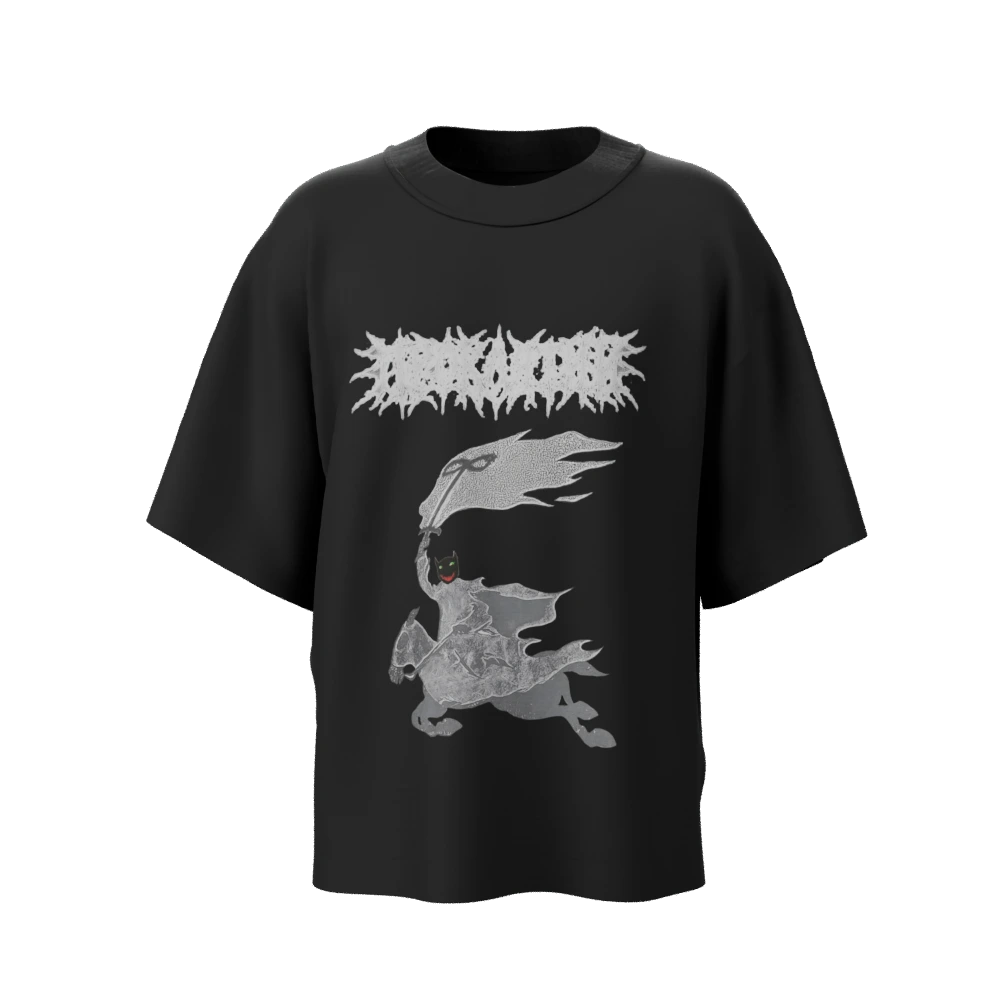
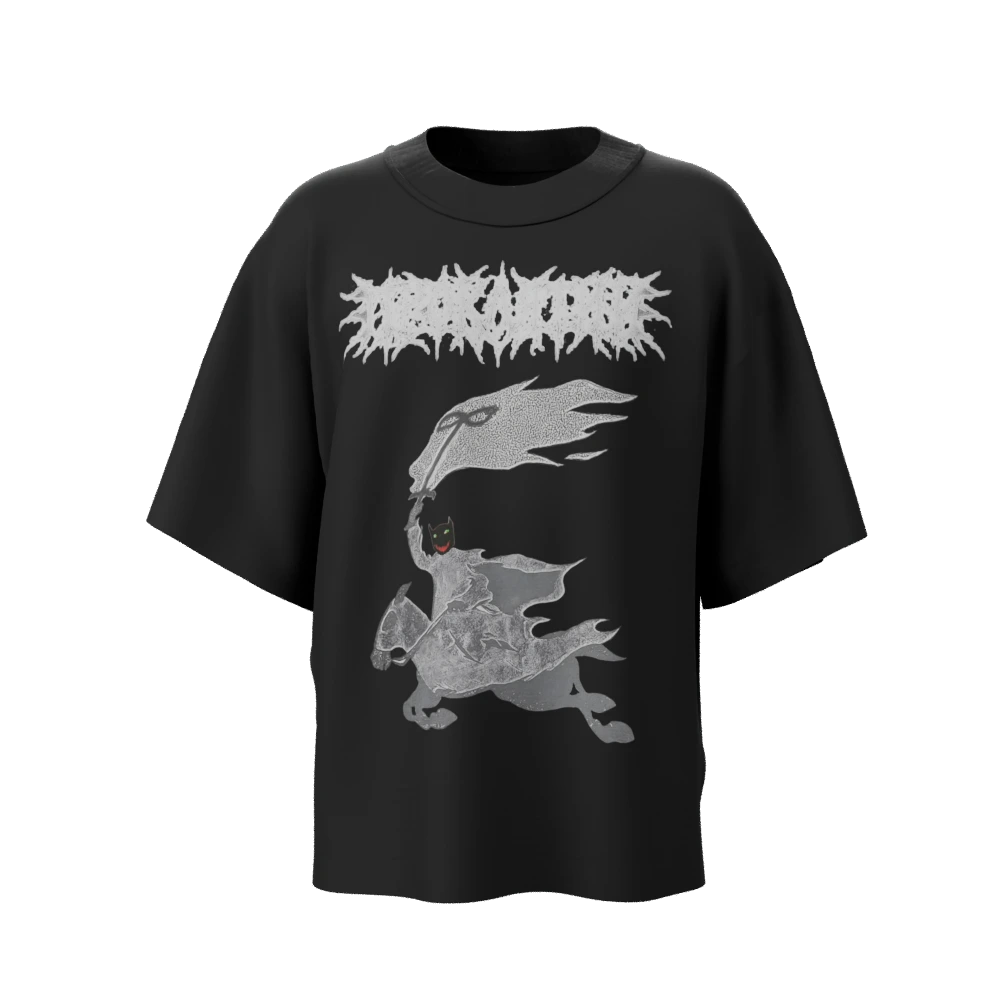
feat: refine tee prints and update merch prices and production copy

Changed region(s): [[0.341, 0.248, 0.682, 0.744]]

diff --git a/scripts/new-merch/build-uv.py b/scripts/new-merch/build-uv.py
@@ -12,6 +12,7 @@ FULL=ROOT/'готові розгортки'
 NAMES=['Рок департамент / два принти','Рок департамент / мала емблема','Рок департамент / велика емблема',
        'Суко, ми українці','Ганстерський режим','Проклятий вершник','Щільний Дріл / Ніжна Оксана',
        'Прокляті / жовтий і червоний','Проклятий / кістяна емблема','Ми українці, суко']
+PRODUCTION_NOTE='Виготовлення боб — до 7 днів під обстрілами, але ми вас любимо.'
 
 
 def main():
@@ -20,11 +21,14 @@ def main():
     report={'cloth':[8,8,8],'shirtResolution':[7936,7936],'hoodieResolution':[8192,8192],
             'webResolution':[4096,4096],'sourceDirectory':ROOT.name,
             'printScale':{'tshirt':{'front':.7,'back':.8},'hoodie':{'front':1,'back':1}},
+            'tshirtAdjustments':{'6':{'frontScale':1.15,'frontShiftUp2048':32},
+                                 '9':{'frontShiftUp2048':32},'8':{'backScale':.8},'4':{'sleeveScale':.7}},
             'printAnchor':'original print center','designs':[]}
     collections=[]
     font=ImageFont.truetype('/System/Library/Fonts/Supplemental/Arial.ttf',24)
     for kind,title,description in [('tshirt','футболяроки','Прокляті футболки для святих людей'),
                                    ('hoodie','бобчанскі','Прокляті боби для святих людей')]:
+        description=f'{description}. {PRODUCTION_NOTE}'
         mask=mesh_mask(OUT/f'{kind}-mesh.json');mask.save(OUT/f'{kind}-uv-mask.png')
         public=FRONT/f'public/3d/textures/prokliatyi/new-merch';public.mkdir(parents=True,exist_ok=True)
         items=[]

diff --git a/scripts/new-merch/uv_layout.py b/scripts/new-merch/uv_layout.py
@@ -37,10 +37,14 @@ def atlas(kind,sides,mask2048,number,mesh_file=None):
     if kind=='tshirt':
         front_box=(220,150) if number==2 else (490,520)
         front_axis=870/3.875 if number==2 else 1290/3.875
-        placement={'front':place(canvas,mask,sides['front'],front_box,front_axis,5480/3.875,.7),
-                   'back':place(canvas,mask,sides['back'],(568,605),3855/3.875,5090/3.875,.8)}
+        front_top=5480/3.875-(32 if number in (6,9) else 0)
+        front_scale=.7*(1.15 if number==6 else 1)
+        back_scale=.8*(.8 if number==8 else 1)
+        placement={'front':place(canvas,mask,sides['front'],front_box,front_axis,front_top,front_scale),
+                   'back':place(canvas,mask,sides['back'],(568,605),3855/3.875,5090/3.875,back_scale)}
         if 'sleeve' in sides:
-            placement['sleeve']=place(canvas,mask,sides['sleeve'],(190,110),6775/3.875,2900/3.875)
+            placement['sleeve']=place(canvas,mask,sides['sleeve'],(190,110),6775/3.875,2900/3.875,
+                                      .7 if number==4 else 1)
     else:
         front_box=(110,75) if number==2 else (250,175)
         front_axis=750 if number==2 else 804

diff --git a/docs/new-merch.md b/docs/new-merch.md
@@ -1,8 +1,10 @@
 # Новий мерч / є. \*\*\*
 
-У `/prokliatyi` дві старі колекції замінено новими героями **«футболяроки»** (10 футболок) і **«бобчанскі»** (11 худі). Товари створюються в backend з розмірами **S, M, L, XL, XXL, XXXL**. З попередніх колекцій перенесено описи «Прокляті футболки для святих людей» і «Прокляті боби для святих людей», ціни 1000 / 2000 грн та нульові залишки. Старі записи знімаються з вітрини через `isActive=false` і `deletedAt`, зі збереженням історії.
+У `/prokliatyi` дві старі колекції замінено новими героями **«футболяроки»** (10 футболок) і **«бобчанскі»** (11 худі). Товари створюються в backend з розмірами **S, M, L, XL, XXL, XXXL**. З попередніх колекцій перенесено описи «Прокляті футболки для святих людей» і «Прокляті боби для святих людей» та нульові залишки. Ціни за останнім уточненням власника — **1200 / 2100 грн**, включно з усіма розмірами. Старі записи знімаються з вітрини через `isActive=false` і `deletedAt`, зі збереженням історії.
 
 ## Як працює проєкт
+
+До описів обох нових колекцій додано повідомлення власника: «Виготовлення боб — до 7 днів під обстрілами, але ми вас любимо».
 
 Магазин у `drill_shop` — Next.js, React Three Fiber і Feature-Sliced Design. Backend у сусідній папці `drill-shop-backend` відповідає за товари, колекції, кошик та замовлення. `useCollections` перетворює `/collections` у дані для `HomeHeroes`; `HeroVisual` завантажує модель у видимій області й перемикає Base Color через `useDesignMap`. Сцена клонує матеріали, тому різні герої не забирають модель або вибраний принт один в одного.
 
@@ -28,6 +30,8 @@
 ## UV і готові файли
 
 Оновлення 2026-10-13: футболки мають **70%** попередньої ширини й висоти спереду та **80%** ззаду, навколо попередніх центрів. На худі 01–10 обидва боки повернуті до **100%** початкового розміру. Генератор працює з оригінальними принтами без накопичення масштабування. `layout-before-print-resize.json` у локальній папці генератора містить початкові координати. URL вебтекстур та постерів мають хеш версії.
+
+Фінальні правки **лише футболок**: кістяну емблему №09 і вершника №06 піднято на 32 px у координатах 2048². Вершник збільшений на 15% від зменшеної версії, навколо центру. Спина №08 зменшена ще на 20%, рукав №04 — на 30%, зі збереженням центрів. Худі цими правками не змінюються.
 
 - Футболка: чинна `public/3d/models/tshirt.glb`. Перед — ліва деталь, спина — середня. Права велика деталь — внутрішня поверхня спини; вона лишається чорна. Це перевірено по геометрії та рендерах.
 - Худі: чинна `public/3d/models/hoodie-3.glb`. Звичайний перед розміщений над кишенею в межах y 662–837; спина нижче капюшона, y 106–502 і ширина до 250, у координатах 2048². Для дизайну 04 перенесений і рукавний принт. У №11 один принт проєктується за X/Y геометрії на груди й окремий UV-острів кишені через `project_print.py`, тому лінії збігаються на її шві.

diff --git a/docs/superpowers/plans/2026-10-13-new-merch.md b/docs/superpowers/plans/2026-10-13-new-merch.md
@@ -55,3 +55,7 @@ All 20 garments were regenerated with fronts at 70% and backs at 80% of the init
 Замінити старі дві колекції двома API-колекціями «футболяроки» та «бобчанскі», перенести старі описи й ціни, додати S/M/L/XL/XXL/XXXL, виправити назву №05 на «Ганстерський режим», commit і push у v2. Футболки залишити 70% перед / 80% спина; худі повернути до початкових 100% обох боків. Додати 11-те худі «Проклятий вершник / на всі груди» зі спільним принтом через UV грудей та кишені.
 
 Порядок: згенерувати 21 атлас і 42 рендери; перевірити масштаб і безпечні UV; створити нові колекції неактивними зі старими нульовими залишками; завантажити фото; перевірити збірку й незалежний review; push і перевірка прод-асетів; атомарна активація нових/зняття старих; revalidate 31 товар і фінальна перевірка бази та браузера. Старі замовлення й записи зберегти.
+
+Останнє уточнення: лише на футболках підняти №09 і №06 на 32 UV-пікселі (2048²), №06 збільшити на 15%, спину №08 зменшити на 20%, рукав №04 — на 30%. Ціни нових футболок 1200 грн, бобів 2100 грн у товарі й кожному варіанті. Перегенерувати атласи/рендери, перевірити точні відносні зміни й незмінність усіх худі, оновити фото, push, перевірка прод-версії та ціни в API/браузері.
+
+Обидва описи доповнити текстом: «Виготовлення боб — до 7 днів під обстрілами, але ми вас любимо».
